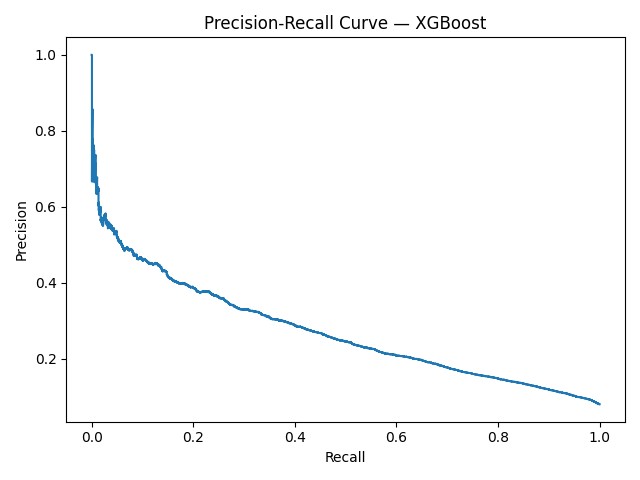
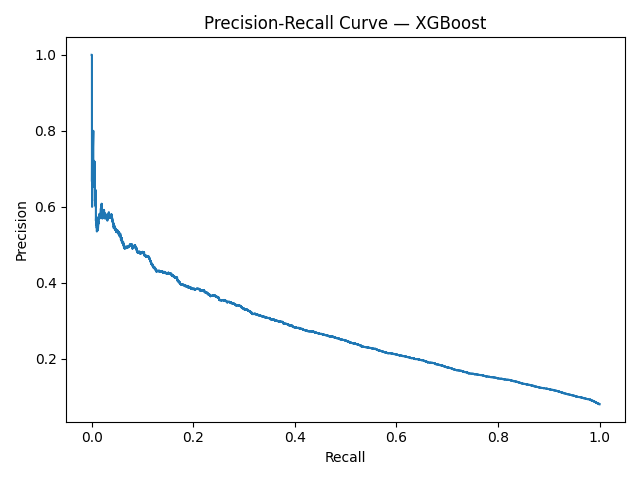
Docker added , Readme updated

diff --git a/README.md b/README.md
@@ -75,6 +75,8 @@ uv run dvc pull
 `dvc pull` downloads the pre-merged feature matrix (`merged_train.csv`), raw CSVs, and
 the fixed split indices — no preprocessing step needed.
 
+> Important Note: I used google drive as my sotrage , dvc pull directly pulls the data from my google drive. In order to achieve this, I put my google drive folder secrets into the project directly so dvc pull commands run without any additional effort.
+> I know we are trying to do a project in the industrial level. Normally I know that , ı should share the secrets about google folder privatly to reciever and they would put it into correct places. But ı choose this becuase ı did not want you waste effort about creating credentials.
 > All commands use the `uv run` prefix so they work without manually activating the virtual
 > environment. Alternatively, activate it first with `.venv\Scripts\activate` (Windows) or
 > `source .venv/bin/activate` (Linux/macOS) and omit the `uv run` prefix.
@@ -147,6 +149,45 @@ uv run python main.py train-ft-transformer --pull=False
 To train without a GPU, append `--gpu=False` to any command above.
 
 View all experiment results at `http://127.0.0.1:8080`. Plots are saved to `plots/`.
+
+Note: I did not put an inference script from the models that we trained as I said in my project proposal becuase from the project document that you shared with us, it is being said that we are responsible for training the models , not the inference part.
+If ı misunderstood , please let me know , I can put that quickly.
+
+## Docker , 2nd Way To Run The Project After Pulling The Data with DVC PULL
+
+I implemented the training and mlflow process also in the docker. The MLflow container and trainer container share a
+network — the trainer automatically points to the MLflow container using the `MLFLOW_URI`
+environment variable. If a CUDA-capable GPU and `nvidia-container-toolkit` are present the
+trainer uses it; otherwise training falls back to CPU silently.
+
+**Prerequisites:** [Docker](https://docs.docker.com/get-docker/) installed. For GPU support
+also install [nvidia-container-toolkit](https://docs.nvidia.com/datacenter/cloud-native/container-toolkit/install-guide.html).
+
+Build the image (first time only, or after dependency changes):
+
+```bash
+docker compose build
+```
+
+Start MLflow and train a model and save the model , plots into appropiete folders :
+
+```bash
+# MLflow server starts automatically as a dependency
+docker compose run --rm trainer uv run python main.py train-xgboost --pull=False
+docker compose run --rm trainer uv run python main.py train-tabnet --pull=False
+docker compose run --rm trainer uv run python main.py train-ft-transformer --pull=False
+```
+
+View experiment results at `http://localhost:8080` (MLflow stays running in the background).
+
+Stop all containers:
+
+```bash
+docker compose down
+```
+
+> Data (`data_folder/`), models (`models/`), plots (`plots/`), and MLflow runs (`mlruns/`)
+> are mounted as volumes so all outputs are persisted on your host machine.
 
 ## Project Structure
 